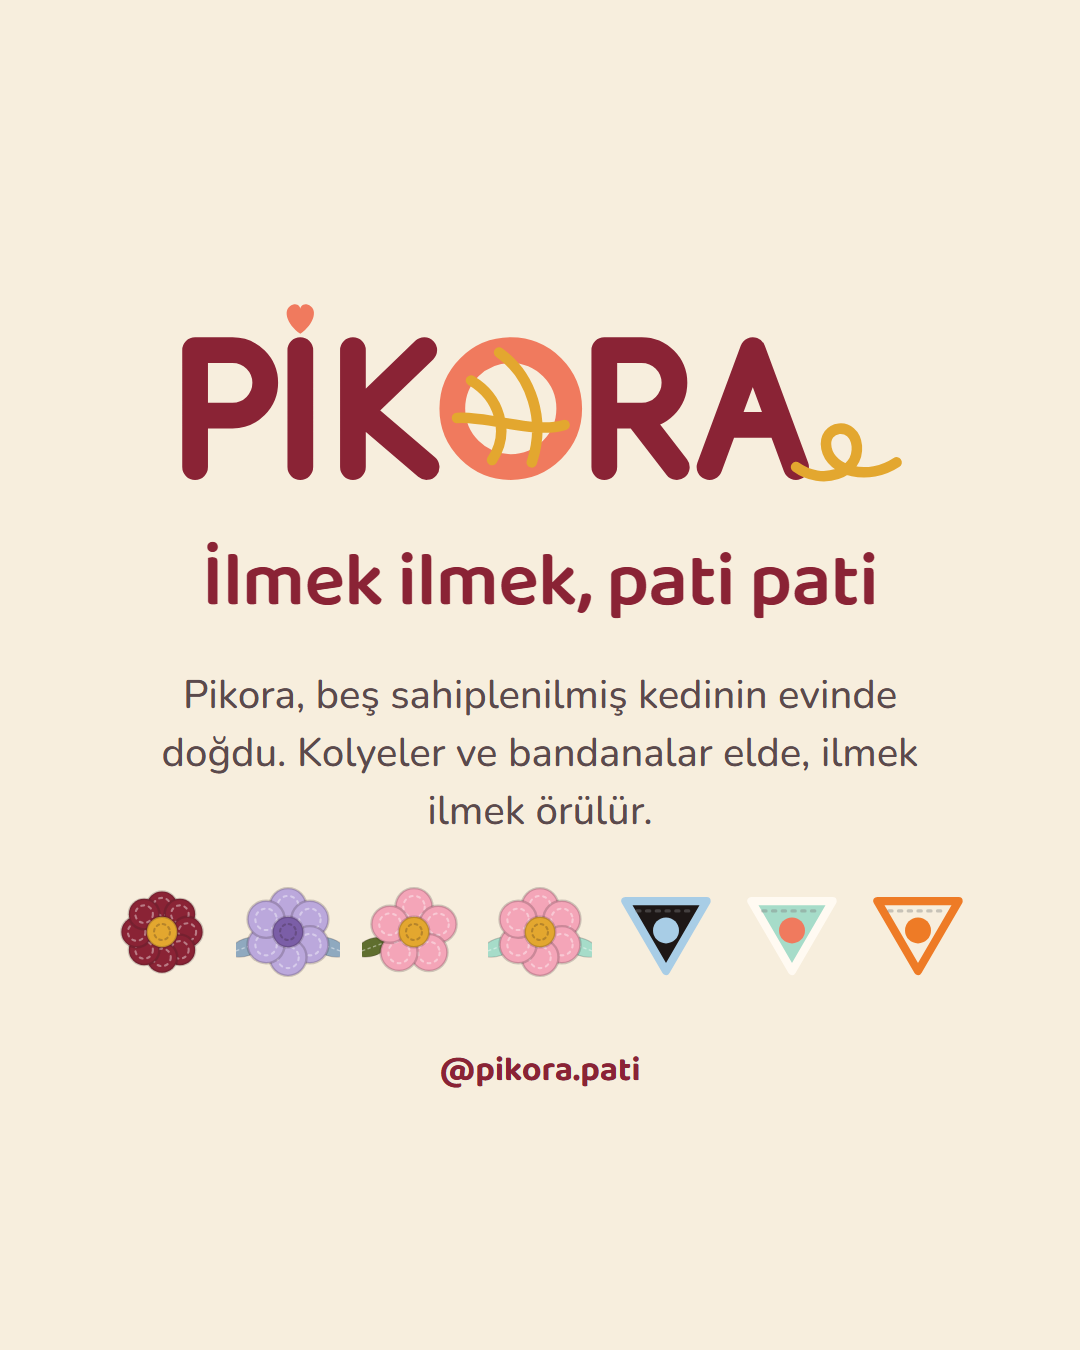
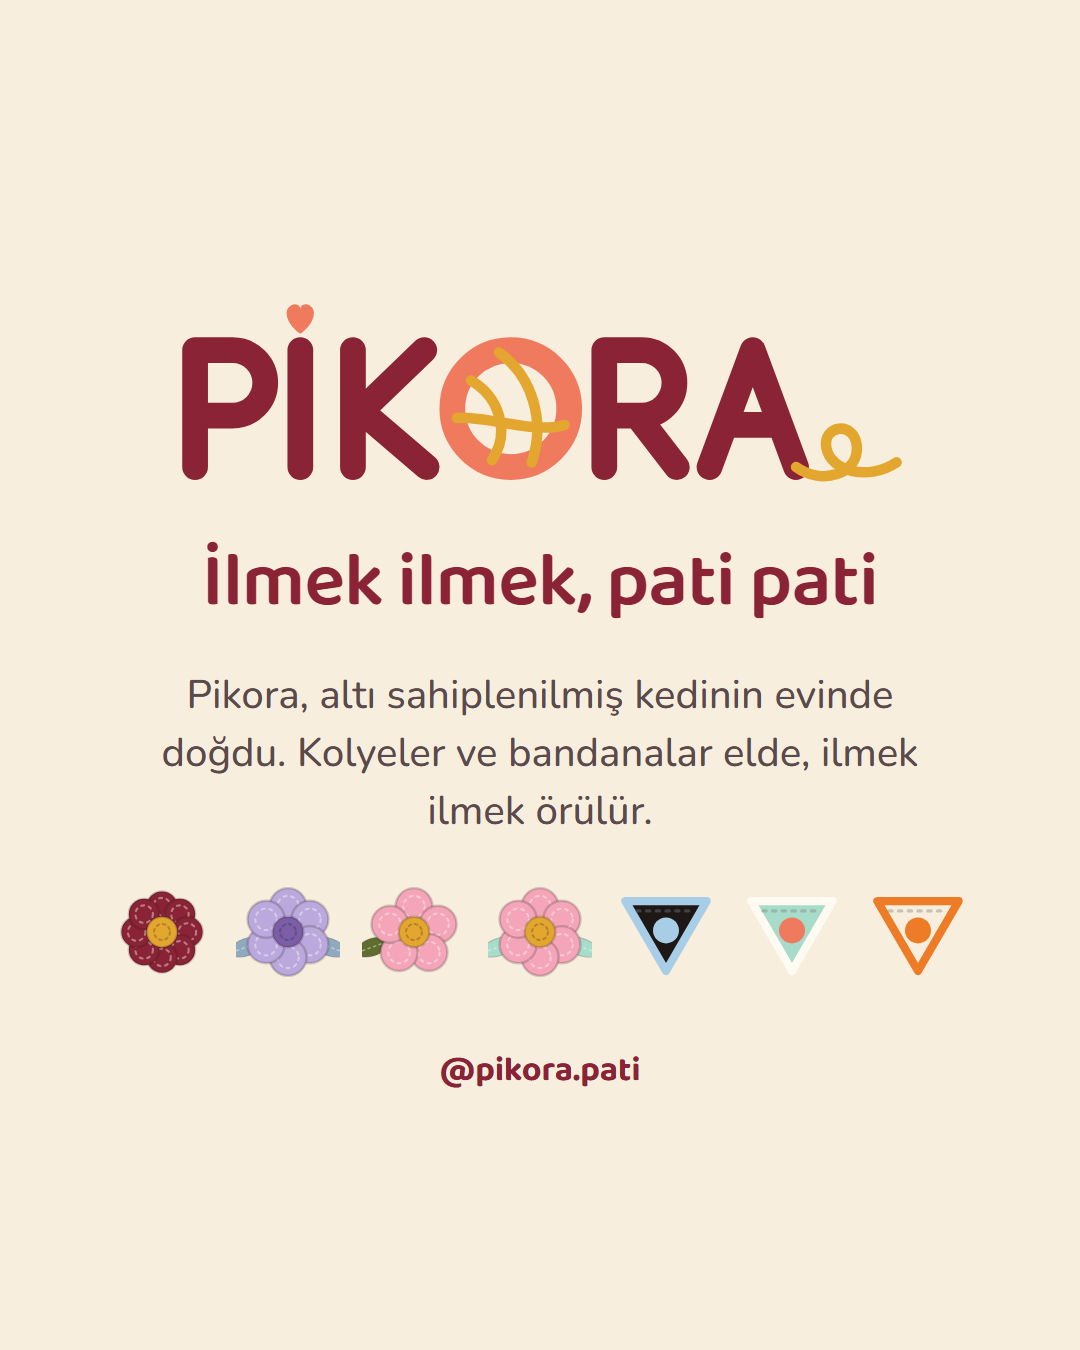
Pikora: altı sahiplenilmiş kedi

Changed region(s): [[0.1528, 0.4978, 0.825, 0.5289]]

diff --git a/pikora-sosyal-kit/kaynak/kit.html b/pikora-sosyal-kit/kaynak/kit.html
@@ -93,7 +93,7 @@
     h = '<div class="urun" style="--aile:' + a.renk + '"><div class="urun-gorsel">' + g + '<span class="rozet">' + (u.gorsel ? "tasarım görseli" : "tasarım çizimi") + "</span></div>" +
       '<div class="urun-alt"><p class="aile"><i></i>' + a.ad + " ailesi · " + u.tur + '</p><h1 class="b">' + u.ad + '</h1><span class="fiyat">' + u.fiyat + " ₺</span>" + KUNYE + "</div></div>";
   } else if (t === "tanisma") {
-    h = '<div class="yazi tanis">' + LOGO + '<p class="b slogan">İlmek ilmek, pati pati</p><p>Pikora, beş sahiplenilmiş kedinin evinde doğdu. Kolyeler ve bandanalar elde, ilmek ilmek örülür.</p>' +
+    h = '<div class="yazi tanis">' + LOGO + '<p class="b slogan">İlmek ilmek, pati pati</p><p>Pikora, altı sahiplenilmiş kedinin evinde doğdu. Kolyeler ve bandanalar elde, ilmek ilmek örülür.</p>' +
       '<div class="boncuklar" style="width:860px">' + U.filter(function (x, i) { return i % 2 === 0; }).map(C.boncukSVG).join("") + '</div><div class="kunye"><span>' + IG + "</span></div></div>";
   } else if (t === "siparis") {
     h = '<div class="yazi"><p class="ust">Nasıl sipariş verilir</p><h1 class="b">Üç ilmekte sipariş</h1>' +

diff --git a/pikora-site/index.html b/pikora-site/index.html
@@ -51,7 +51,7 @@
         </svg>
       </h1>
       <p class="slogan">İlmek ilmek, pati pati</p>
-      <p class="giris-metin">Pikora, beş sahiplenilmiş kedinin evinde doğdu. Kolyeler ve bandanalar elde, ilmek ilmek örülür.</p>
+      <p class="giris-metin">Pikora, altı sahiplenilmiş kedinin evinde doğdu. Kolyeler ve bandanalar elde, ilmek ilmek örülür.</p>
       <a class="pay-seridi" href="#pay"><b>Sosyal girişim</b><span>Ürün giderleri düşülünce kalanın %10'u barınaktaki hayvanlara ayrılır.</span></a>
       <div class="giris-dugmeler">
         <a class="dugme" href="#urunler">Ürünlere bak</a>
